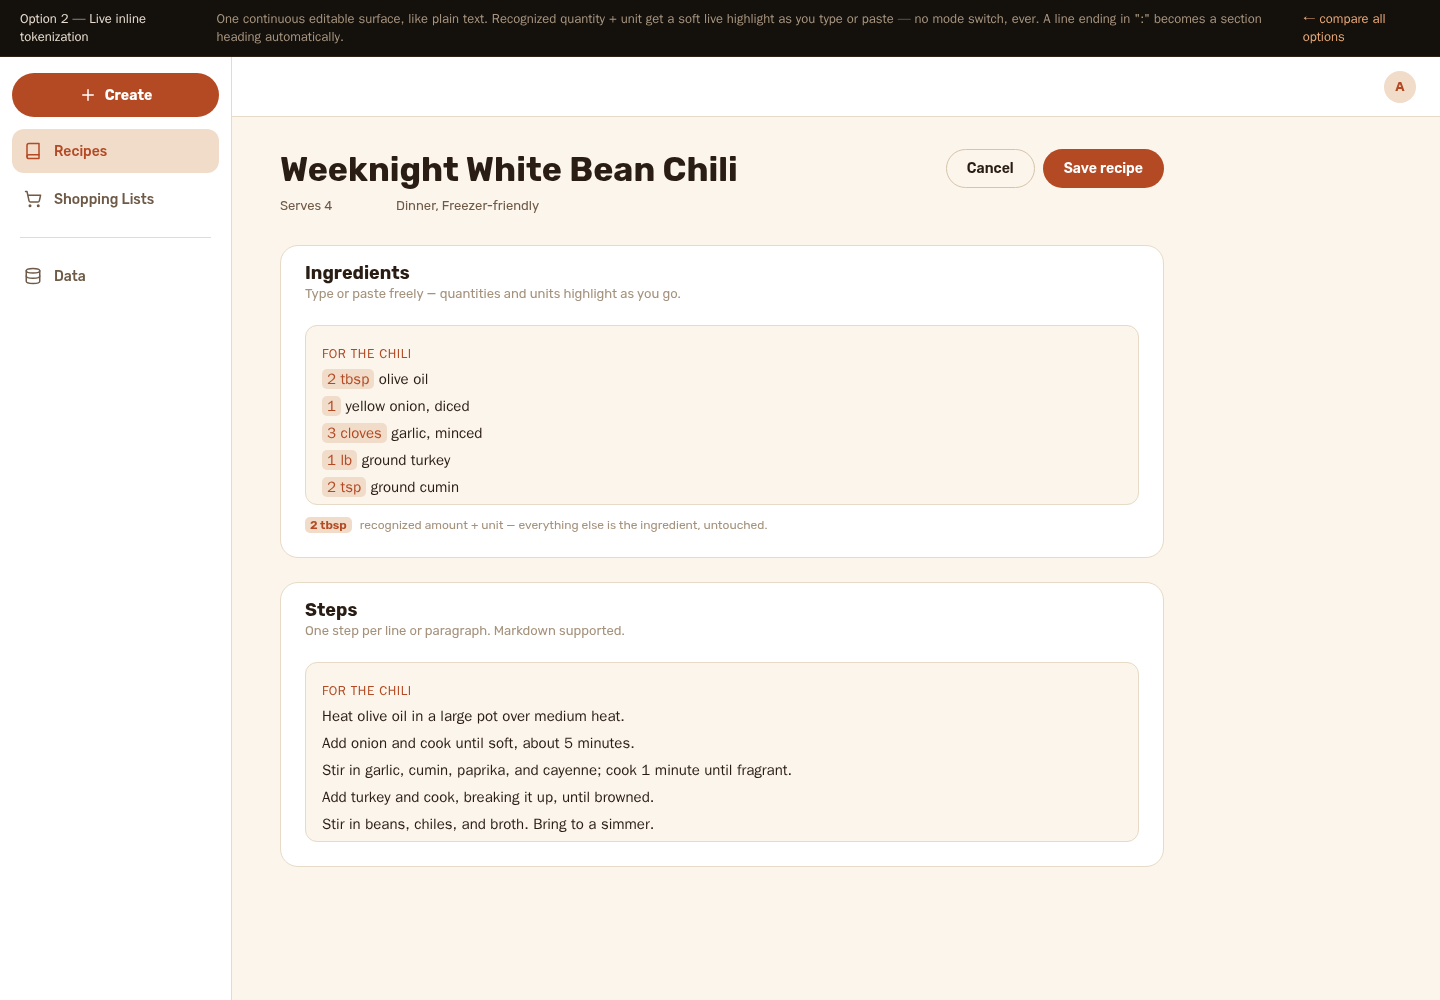
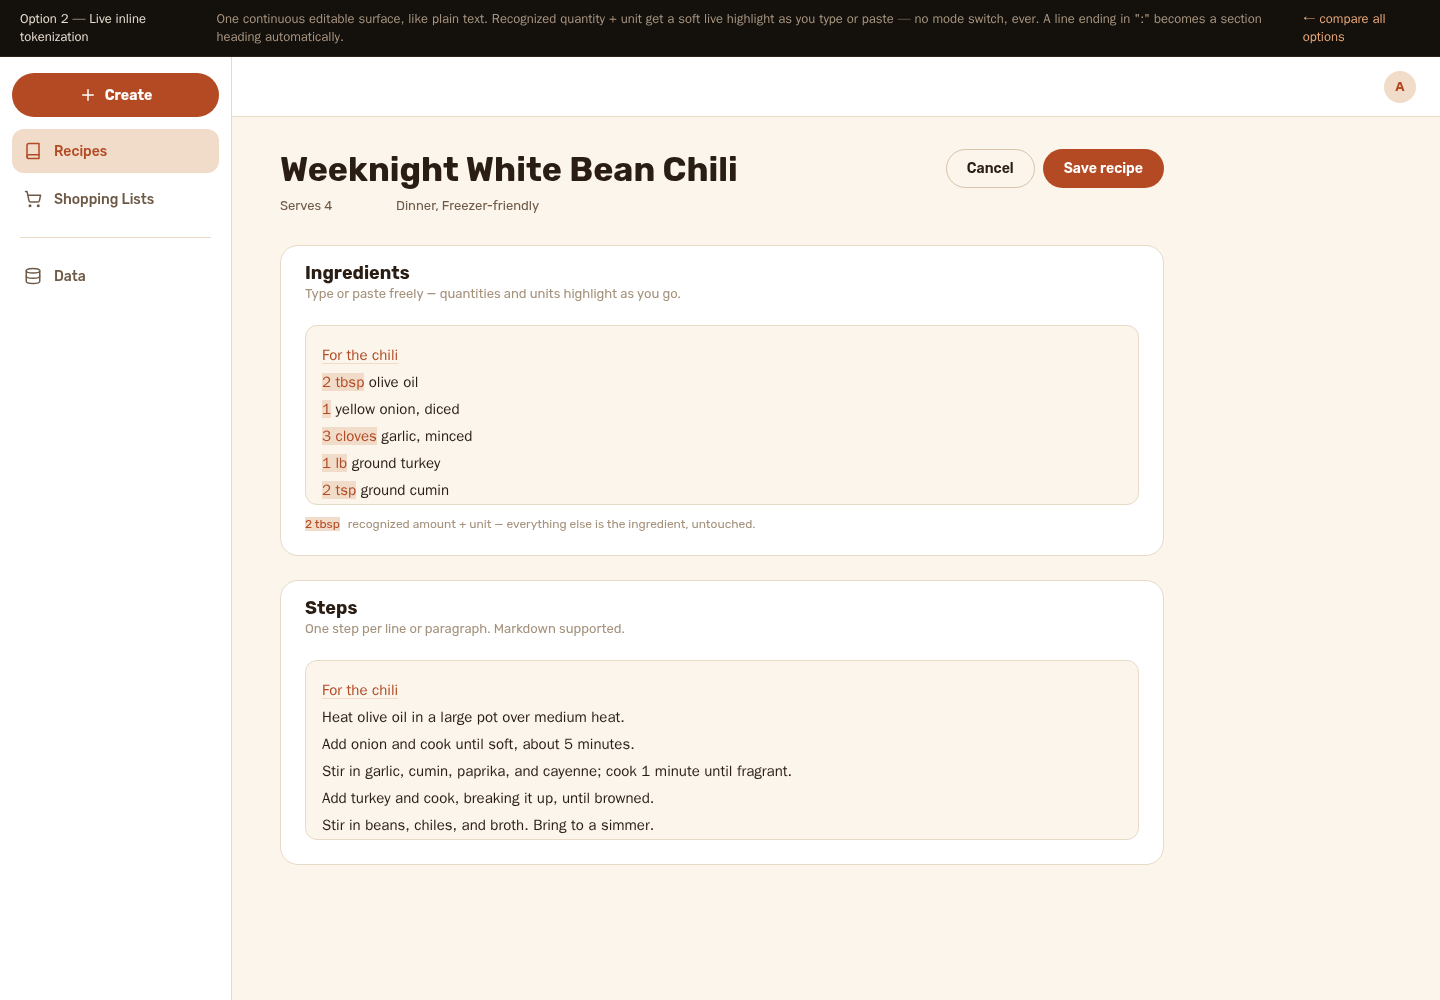
DAMN-2 mockups: fix overlay/textarea geometry mismatch in live-inline option
Root cause: the highlight styling (.tok-amt chip padding + bold, .eheading
font-size/weight/uppercase/letter-spacing/margin) changed the rendered
width and line-box height of the overlay relative to the plain, unstyled
text actually sitting in the invisible textarea underneath it. Any
highlighted or heading line rendered wider/taller in the overlay than its
real counterpart, so everything after it visually drifted out of
registration with where the real (invisible) text and cursor actually
are — clicking at the visual end of a line landed the real cursor
wherever that line actually ends underneath, which is earlier.

Fix: stripped every layout-affecting property from the overlay's
highlight styles, keeping only paint-only ones (color, background-color
with no padding, text-decoration) that cannot change advance width or
line height. This is a real trade-off of the live-inline direction, not
just a bug: the highlight can no longer look like a padded pill/badge or
a bold small-caps heading, because ANY such treatment breaks pixel
parity with the real underlying text. Options 1 and 3 don't have this
constraint — their structured preview is a separate element, not stacked
pixel-for-pixel behind a live input.

Verified two ways, not just visually: (1) measuring each overlay line's
actual text bounding-box width against a plain unstyled span with the
same characters (0px diff on every line, including chip and heading
[…]

diff --git a/docs/features/DAMN-2-recipe-entry-and-versioning/mockups/entry-option-2-live-inline.html b/docs/features/DAMN-2-recipe-entry-and-versioning/mockups/entry-option-2-live-inline.html
@@ -73,10 +73,22 @@
     caret-color: var(--color-text-primary);
   }
   .token-field textarea.input-layer:focus { outline: none; }
+  /*
+   * Every rule below must leave each character's horizontal (and vertical) position
+   * exactly where it would fall as plain, unstyled text — that's what the invisible
+   * textarea underneath actually has, and the real cursor is positioned against ITS
+   * layout, not the overlay's. Anything that changes advance width (padding, a
+   * different font-size/weight, letter-spacing, text-transform) or line box height
+   * (margin) makes the overlay drift out of registration with the real text — which
+   * is exactly the bug just reported. Only paint-only properties are safe here:
+   * color, background-color with no padding, text-decoration. No badges, no small
+   * caps, no bold — that visual richness is available to options 1 and 3, whose
+   * "structured preview" is a separate element with no such constraint; it is a real
+   * trade-off of this direction, not a bug to work around further.
+   */
   .eline { min-height: 1.8em; }
-  .eline.eheading { font-size: var(--text-sm); font-weight: var(--weight-semibold); color: var(--color-accent); text-transform: uppercase; letter-spacing: var(--tracking-caps); margin-top: 10px; }
-  .eline.eheading:first-child { margin-top: 0; }
-  .tok-amt { background: var(--color-accent-muted); color: var(--color-accent); border-radius: 5px; padding: 1px 5px; font-weight: var(--weight-semibold); }
+  .eline.eheading { color: var(--color-accent); text-decoration: underline; text-decoration-color: var(--color-accent-muted); text-underline-offset: 3px; }
+  .tok-amt { background: var(--color-accent-muted); color: var(--color-accent); }
 
   .legend { display: flex; align-items: center; gap: var(--space-2); margin-top: var(--space-3); color: var(--color-text-tertiary); font-size: var(--text-xs); }
   .legend .tok-amt { font-size: var(--text-xs); }
